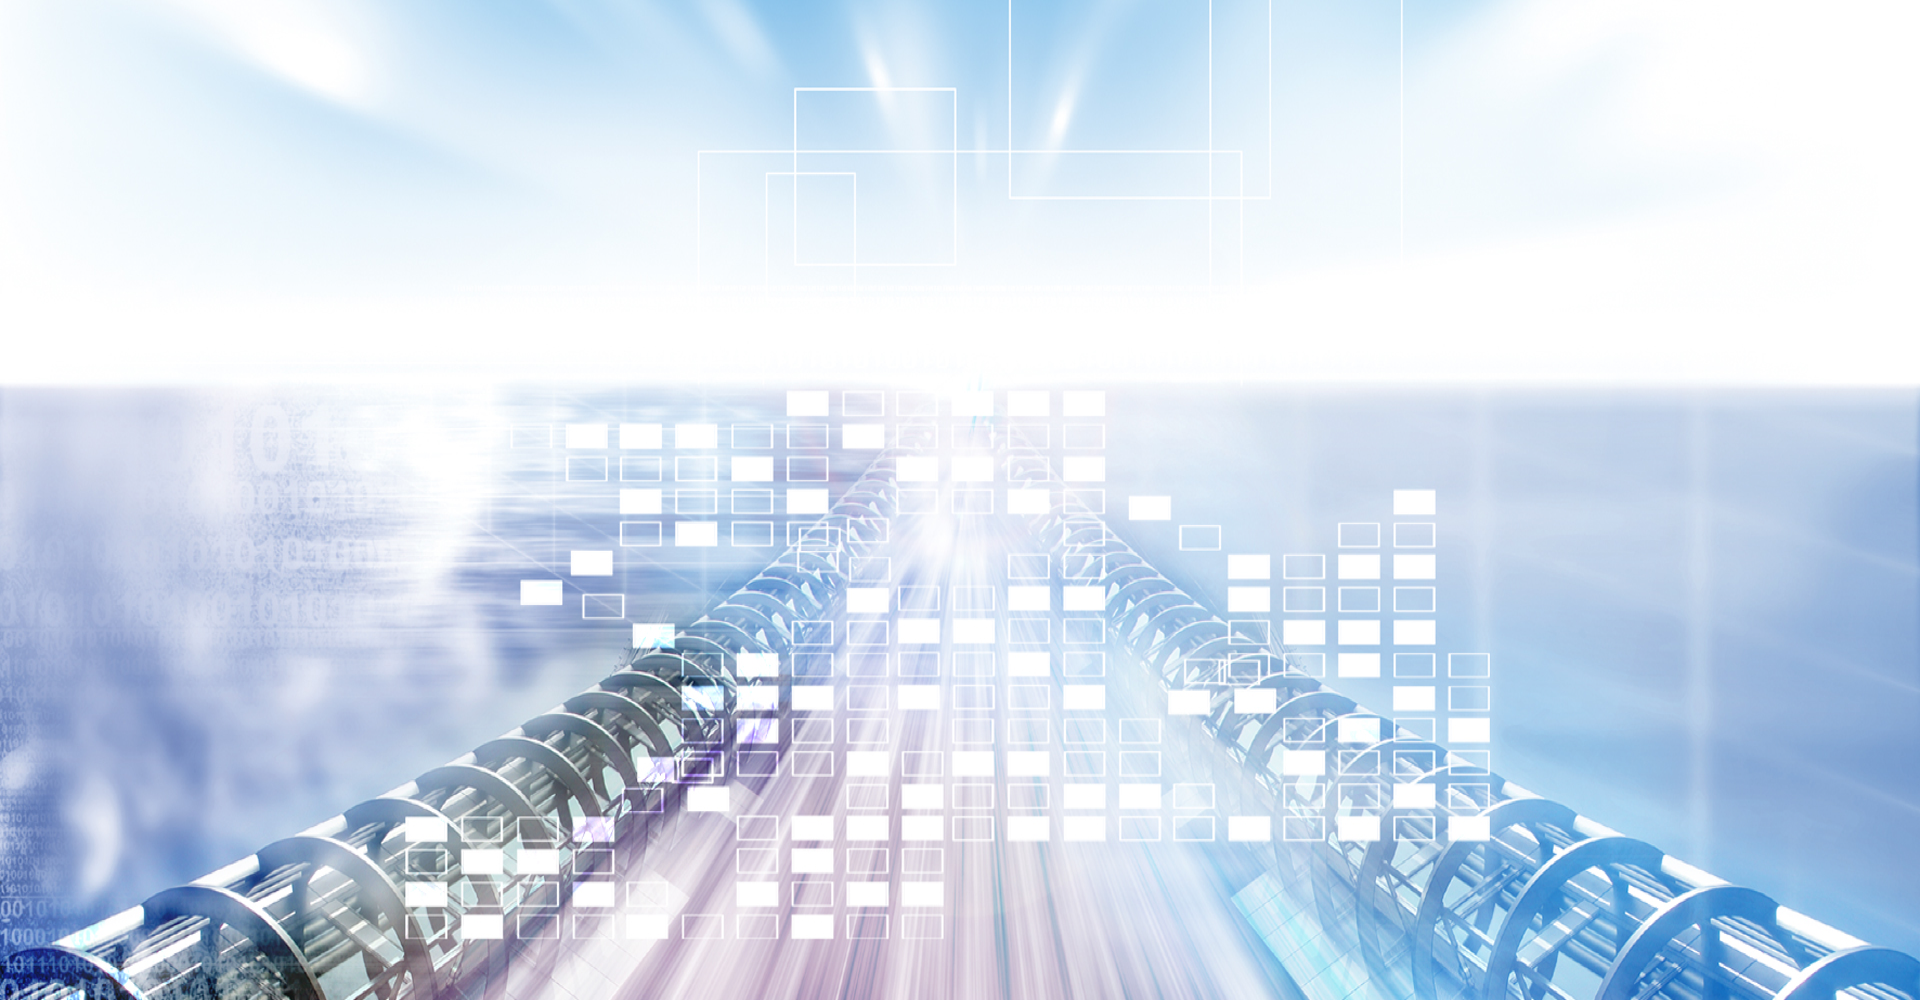
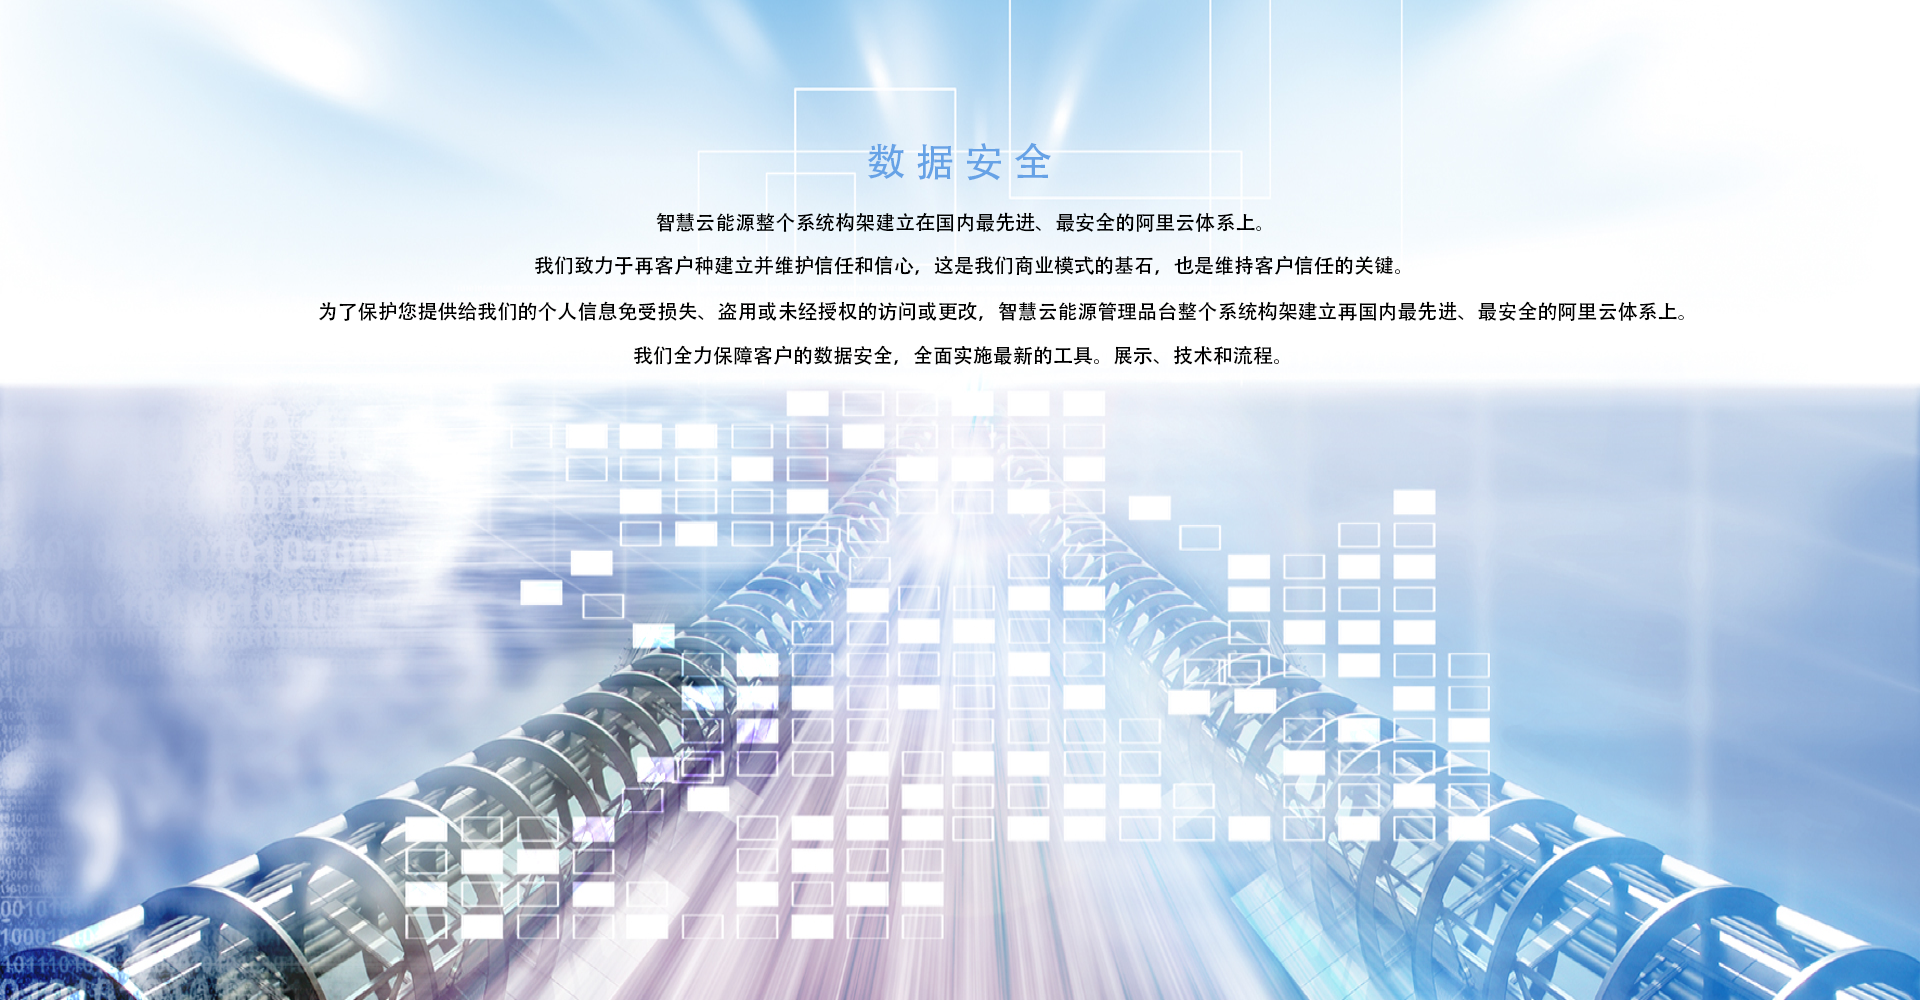
部分图片修改

Changed region(s): [[0.1875, 0.217, 0.875, 0.372], [0.4375, 0.124, 0.5625, 0.186]]

diff --git a/public/security.html b/public/security.html
@@ -41,15 +41,6 @@
             </ul>
         </div>
         <div class="banner m-0-a"><img src="./img/security-banner.png" /></div>
-        <div class="security-banner-position w-100p p-a">
-            <div class="tx-center">
-                <p class="security-banner-title">数据安全</p>
-                <p class="security-banner-text m-t-20">智慧云能源整个系统构架建立在国内最先进、最安全的阿里云体系上。</p>
-                <p class="security-banner-text">我们致力于在客户中建立并维护信任和信心。</p>
-                <p class="security-banner-text">智慧云能源管理平台整个系统构架建立在国内最先进、最安全的阿里云体系上。</p>
-                <p class="security-banner-text">全面实施最新的工具、战术、技术和流程。</p>
-            </div>
-        </div>
     </header>
     <section>
         <div class="banner clearfix m-0-a"><img class="left" src="./img/security01.png" alt=""></div>

diff --git a/src/security.html b/src/security.html
@@ -41,15 +41,6 @@
             </ul>
         </div>
         <div class="banner m-0-a"><img src="./img/security-banner.png" /></div>
-        <div class="security-banner-position w-100p p-a">
-            <div class="tx-center">
-                <p class="security-banner-title">数据安全</p>
-                <p class="security-banner-text m-t-20">智慧云能源整个系统构架建立在国内最先进、最安全的阿里云体系上。</p>
-                <p class="security-banner-text">我们致力于在客户中建立并维护信任和信心。</p>
-                <p class="security-banner-text">智慧云能源管理平台整个系统构架建立在国内最先进、最安全的阿里云体系上。</p>
-                <p class="security-banner-text">全面实施最新的工具、战术、技术和流程。</p>
-            </div>
-        </div>
     </header>
     <section>
         <div class="banner clearfix m-0-a"><img class="left" src="./img/security01.png" alt=""></div>
